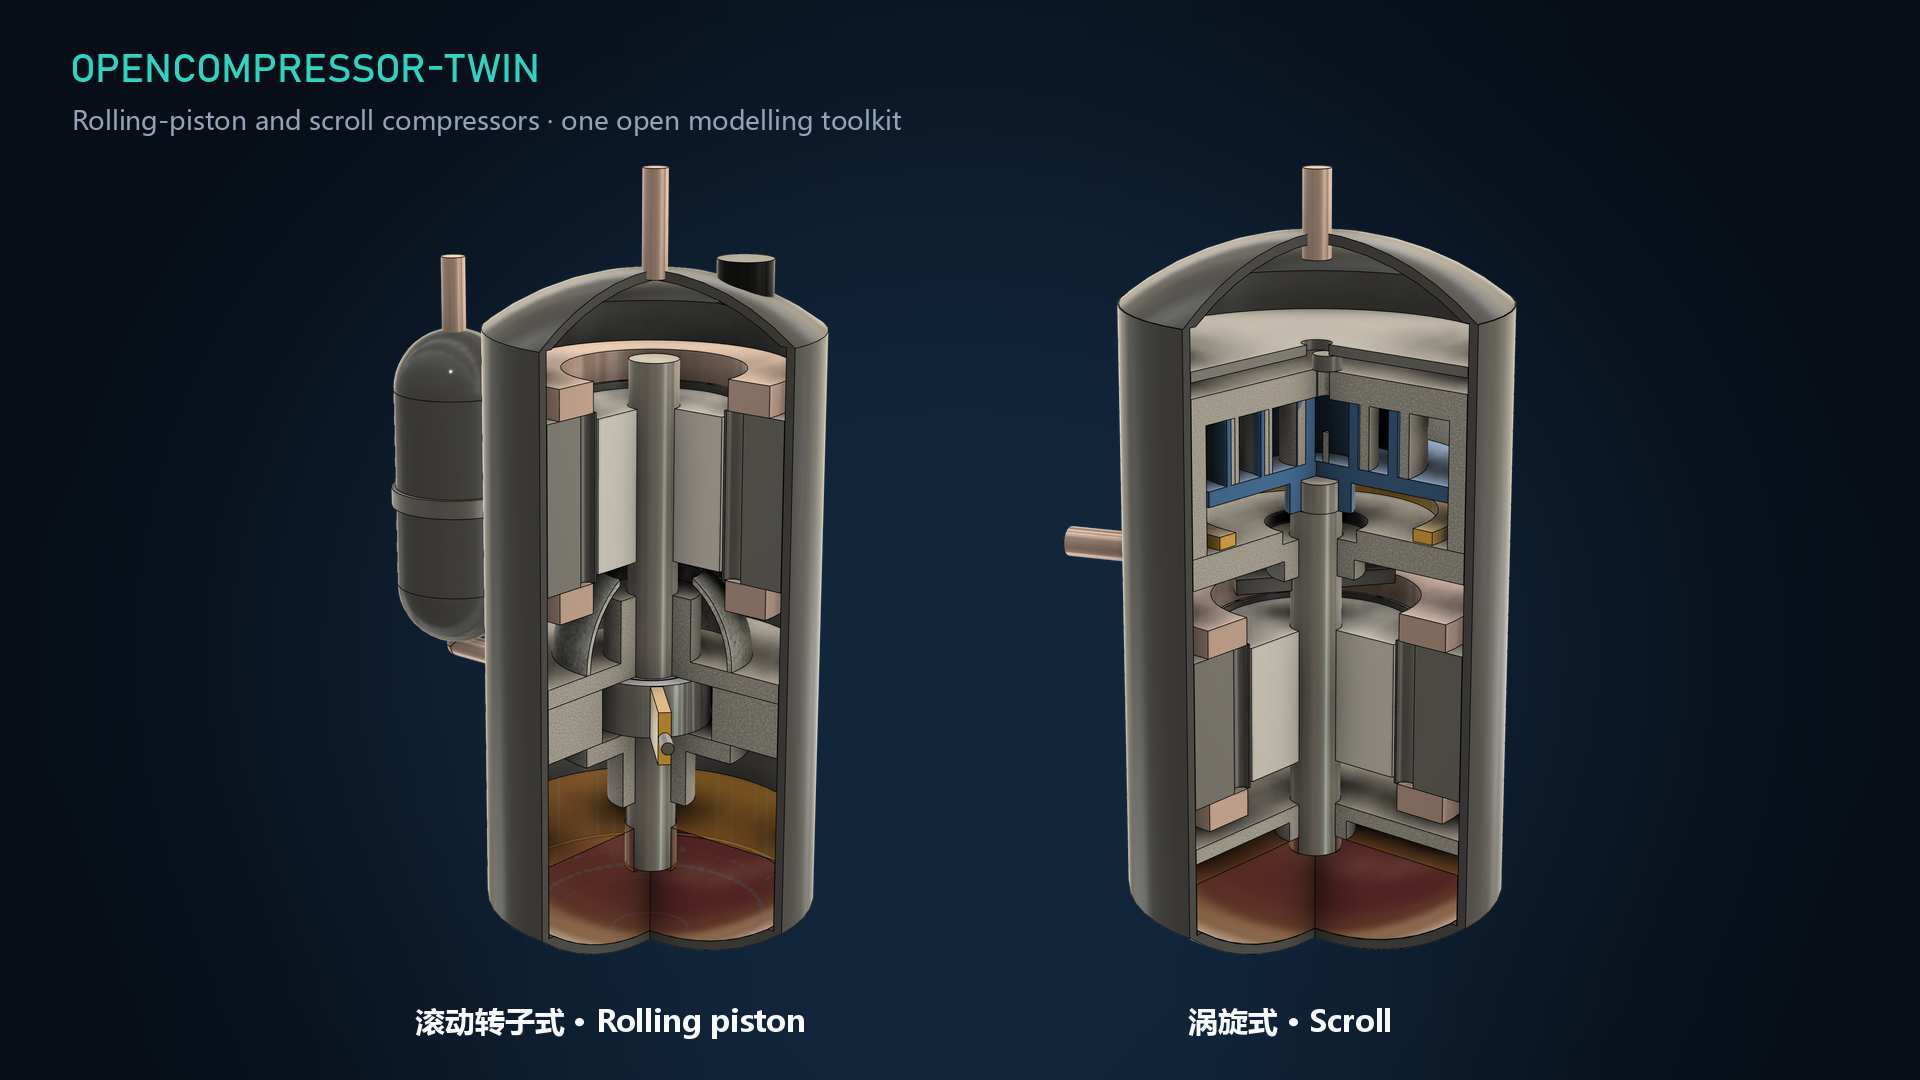
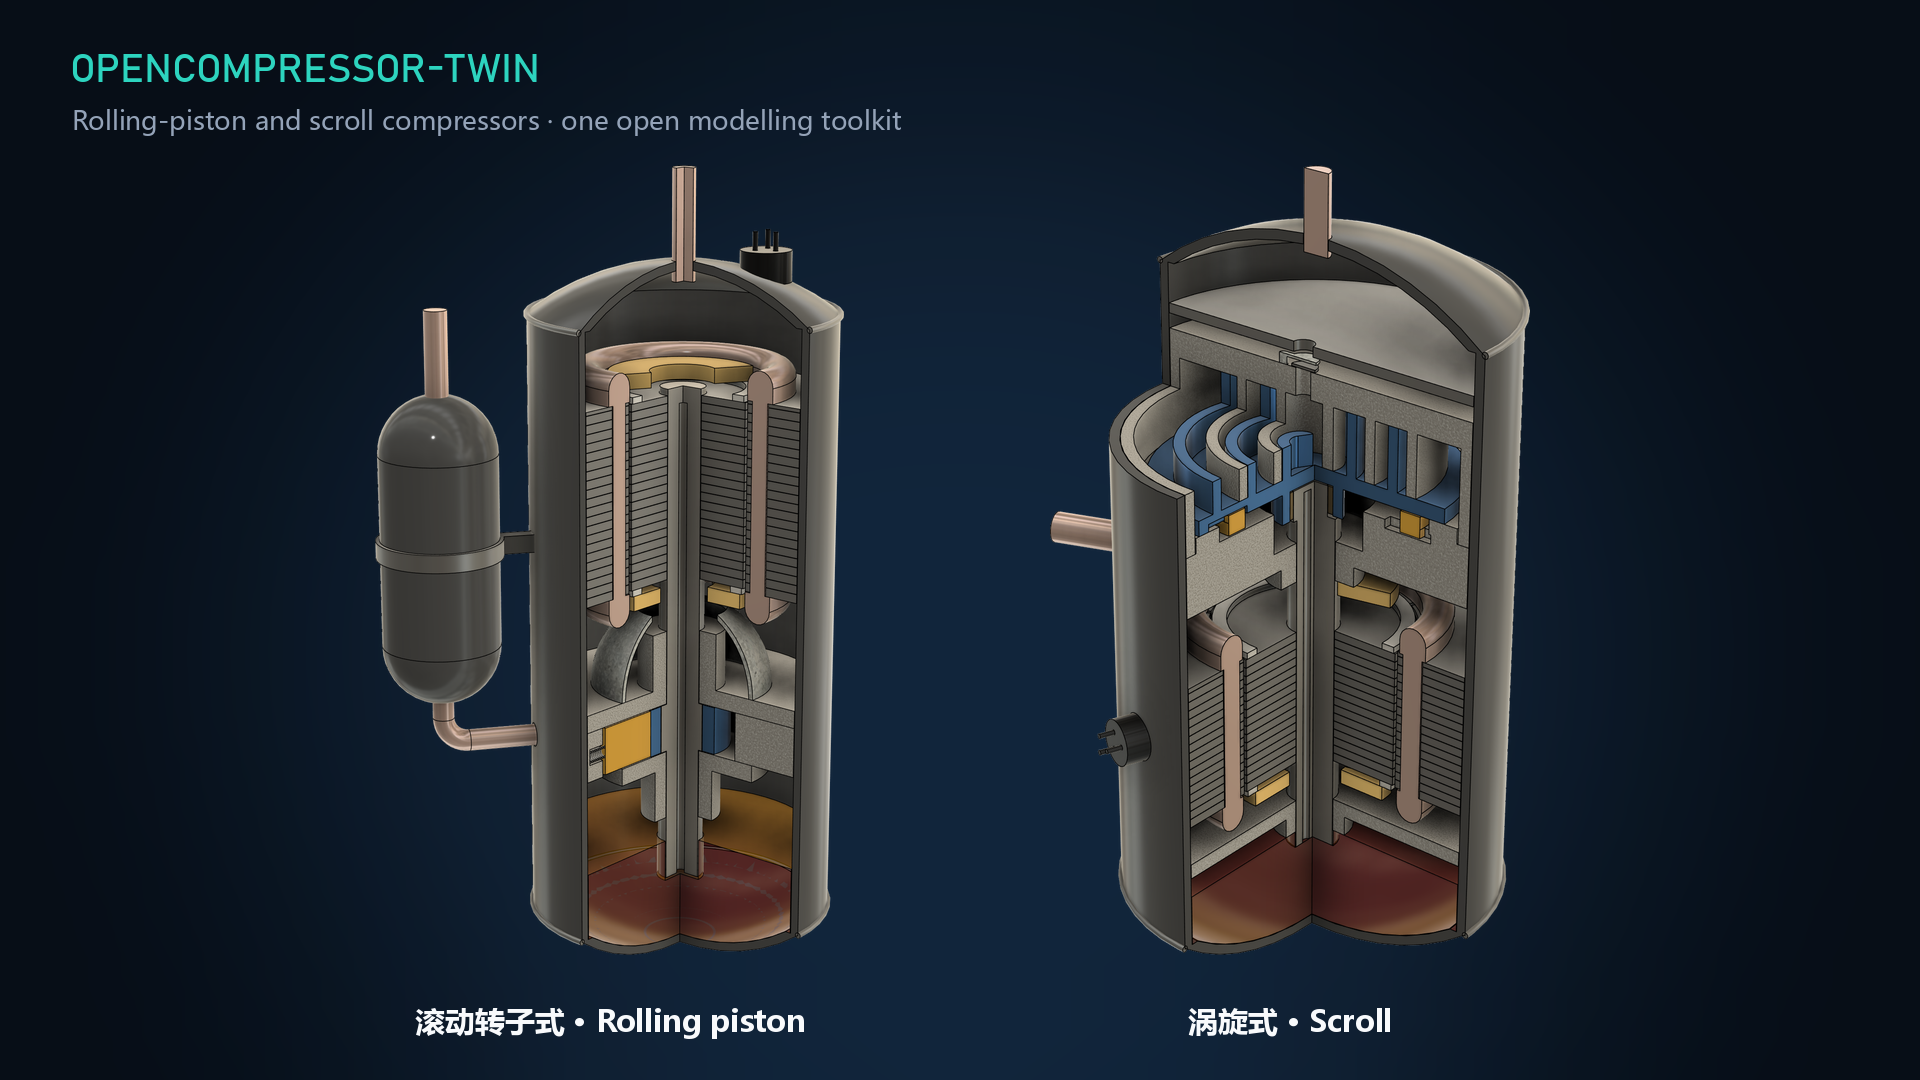
Update compressor illustrations: corrected scroll meshing and Oldham keys, radial vane and visible eccentric, laminated motor

Changed region(s): [[0.5312, 0.1528, 0.8125, 0.8861], [0.1875, 0.1528, 0.4375, 0.8861]]

diff --git a/tools/check_public_tree.py b/tools/check_public_tree.py
@@ -28,7 +28,7 @@ FORBIDDEN_PREFIXES = (
 )
 FORBIDDEN_SUFFIXES = (".pdf", ".docx", ".doc", ".xlsx", ".png", ".jpg", ".jpeg", ".zip", ".whl", ".mp4", ".mp3", ".m4a")
 # Reviewed documentation images (project-generated illustrations only) may be published here.
-ALLOWED_IMAGE_PREFIX = "docs/assets/"
+ALLOWED_IMAGE_PREFIXES = ("docs/assets/", "publication/docs/assets/")
 ALLOWED_IMAGE_SUFFIXES = (".png", ".jpg", ".jpeg")
 TEXT_SUFFIXES = {".py", ".md", ".json", ".toml", ".txt", ".csv", ".yml", ".yaml", ".cfg", ".ini", ".cff", ""}
 MAX_BYTES = 5 * 1024 * 1024
@@ -71,7 +71,7 @@ def check(root=ROOT, rules_path=None, strict=False, self_exempt=True):
         path = root / rel
         if rel.startswith(prefixes):
             errors.append(f"{rel}: forbidden location")
-        allowed_image = rel.startswith(ALLOWED_IMAGE_PREFIX) and rel.lower().endswith(ALLOWED_IMAGE_SUFFIXES)
+        allowed_image = rel.startswith(ALLOWED_IMAGE_PREFIXES) and rel.lower().endswith(ALLOWED_IMAGE_SUFFIXES)
         if rel.lower().endswith(FORBIDDEN_SUFFIXES) and not allowed_image:
             errors.append(f"{rel}: binary/original artefact not for publication")
         if path.is_file() and path.stat().st_size > MAX_BYTES:

diff --git a/RELEASE_CHECKLIST.md b/RELEASE_CHECKLIST.md
@@ -20,6 +20,6 @@
 ## 3. 发布与同步
 
 - [ ] `main` 分支打标签 `vX.Y.Z`
-- [ ] 同步推送 GitHub（wangzhichao-jpg/opencompressor-twin）与 Gitee（bigtaurus/opencompressor-twin）
+- [x] 同步推送 GitHub（wangzhichao-jpg/opencompressor-twin）与 Gitee（bigtaurus/opencompressor-twin）
 - [ ] 两边 Release 上传相同附件；匿名下载并核对哈希
 - [ ] 从公开镜像下载 wheel 独立安装冒烟测试
